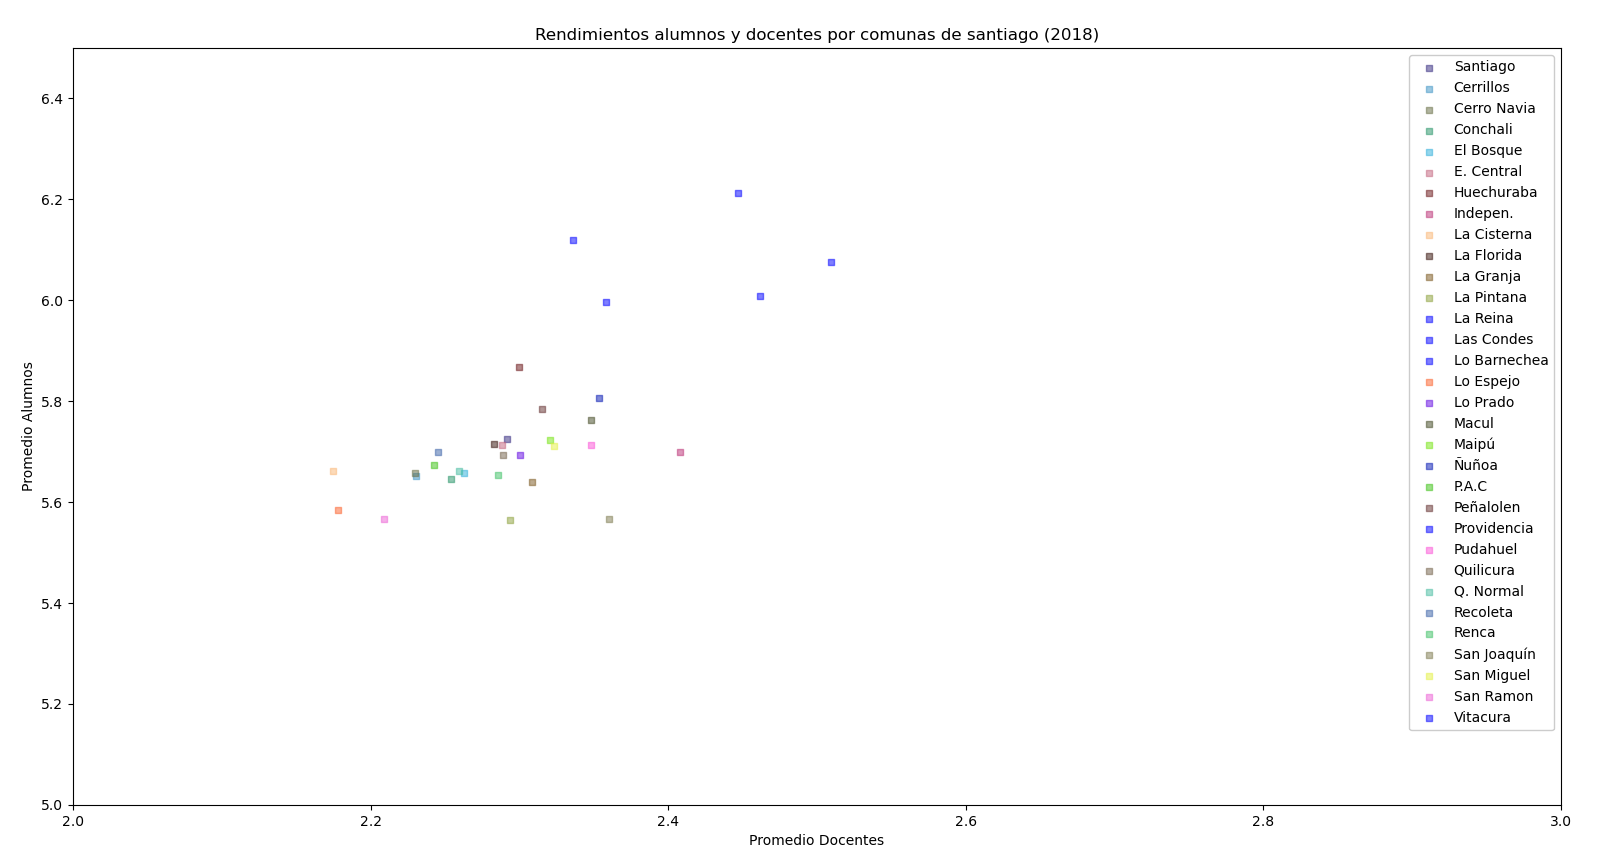
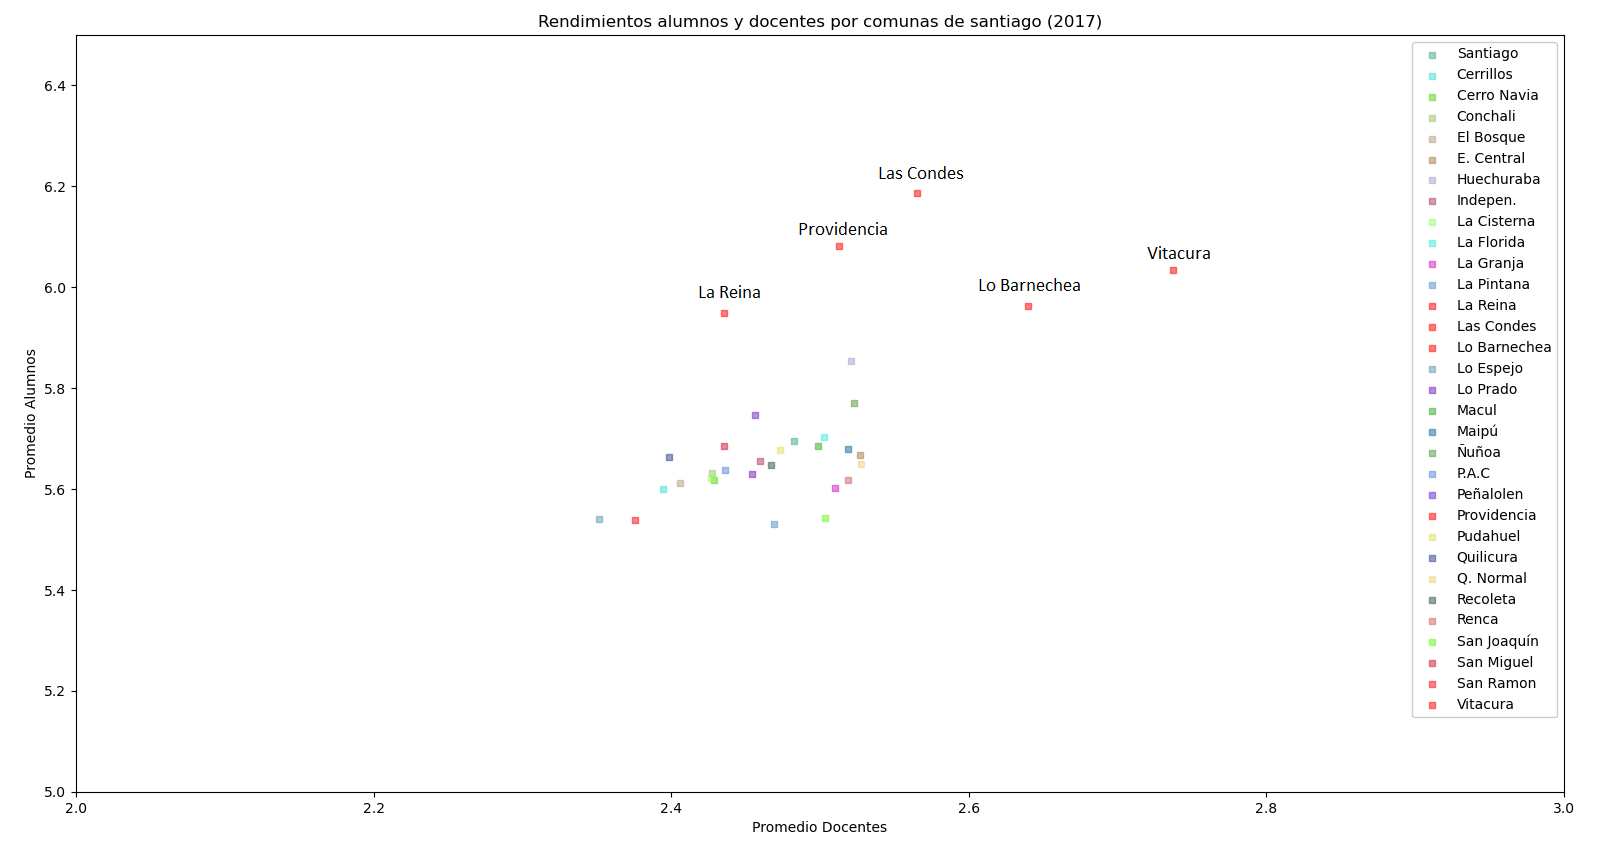
mas grafos añadidos

diff --git a/src/main/python/alumnosvsdocentes/scatterplot_comunas.py b/src/main/python/alumnosvsdocentes/scatterplot_comunas.py
@@ -48,10 +48,10 @@ colormap = np.array(['r', 'g', 'b'])
 colors = cm.rainbow(np.linspace(0, 1, 15))
 
 for i in range(13101,13133):
-    X = df[df['cod_comuna']==i][df['year']==2013]['avg_grades_docentes']
+    X = df[df['cod_comuna']==i][df['year']==2017]['avg_grades_docentes']
 
     #X = X + np.random.normal(size=X.shape)*0.07
-    Y = df[df['cod_comuna']==i][df['year']==2013]['avg_grades_alumnos']
+    Y = df[df['cod_comuna']==i][df['year']==2017]['avg_grades_alumnos']
     #Y = Y + np.random.normal(size=X.shape)*0.03
     if (i == 13113 or i == 13114 or i == 13115 or i == 13123 or i == 13132):
         color = "r"
@@ -66,7 +66,7 @@ plt.xlim([2,3])
 plt.ylim([5,6.5])
 plt.xlabel("Promedio Docentes")
 plt.ylabel("Promedio Alumnos")
-plt.title("Rendimientos alumnos y docentes por comunas de santiago (2013)")
+plt.title("Rendimientos alumnos y docentes por comunas de santiago (2017)")
 plt.legend(['Santiago','Cerrillos','Cerro Navia','Conchali','El Bosque','E. Central','Huechuraba','Indepen.','La Cisterna','La Florida','La Granja','La Pintana','La Reina', 'Las Condes','Lo Barnechea','Lo Espejo','Lo Prado','Macul','Maipú','Ñuñoa','P.A.C','Peñalolen','Providencia','Pudahuel','Quilicura','Q. Normal','Recoleta','Renca', 'San Joaquín','San Miguel','San Ramon','Vitacura']
             , framealpha=1)
 

diff --git a/src/main/python/alumnosvsdocentes/barplot_comunas.py b/src/main/python/alumnosvsdocentes/barplot_comunas.py
@@ -61,7 +61,7 @@ x = np.arange(32)
 
 width = 0.2
 
-m=df[df['year']==2016]
+m=df[df['year']==2013]
 
 #ax.bar(x - width/2, df[df['year']==2017]['avg_grades_alumnos'], color=([255/255, 109/255, 197/255]),width= width)
 # set x-axis label
@@ -85,7 +85,7 @@ plt.xlabel("Comunas")
 plt.xlim([-1,32])
 ax.set_xticks(x)
 ax.set_xticklabels(labels)
-plt.title("Rendimiento alumnos y docentes por comunas de Santiago (2016)")
+plt.title("Rendimiento alumnos y docentes por comunas de Santiago (2013)")
 
 plt.show()
 # save the plot as a file
